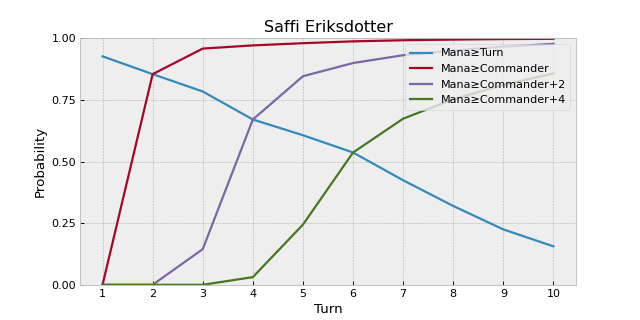
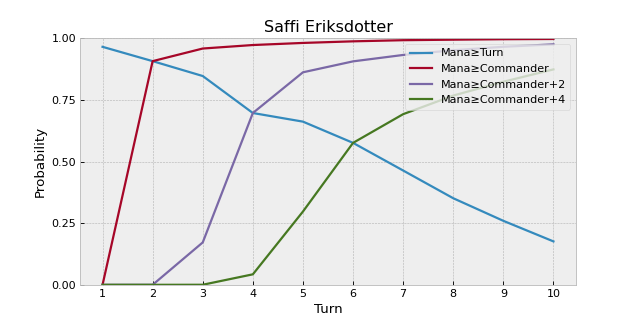
Update example

diff --git a/examples/decks/saffi.py b/examples/decks/saffi.py
@@ -1,5 +1,7 @@
 import matplotlib.pyplot as plt
 from mtg_mana_simulator import AI, Card, Experiment, Metric, Sequence
+from mtg_mana_simulator.actions import basic_tapped_into_play, basic_untapped_into_play, basic_to_hand
+from mtg_mana_simulator.repository import Repository
 
 title = "Saffi Eriksdotter"
 cmc = 2
@@ -8,13 +10,11 @@ deck_size = 99
 turns = list(range(1, 11))
 
 avacyns_pilgrim = birds_of_paradise = Card.tapped_rock(1, 1)
-sakura_tribe_elder = Card.tapped_rock(2, 1)
+sakura_tribe_elder = Card("Sakura-Tribe Elder", cost=2, transform=[basic_tapped_into_play])
 burnished_hart = Card(cost=3, mana_sequence=Sequence.repeat(2).prefixed_by([0, -2]))
-yavimaya_granger = Card.tapped_rock(3, 1)
+yavimaya_granger = Card("Yavimaya Granger", cost=3, transform=[basic_tapped_into_play])
 yavimaya_elder = Card(cost=3, draw_sequence=Sequence.once(1).prefixed_by([0]), mana_sequence=Sequence.once(-2).prefixed_by([0]))
-solemn_simulacrum = Card.tapped_rock(4, 1)
-natures_lore = Card.tapped_rock(2, 1)
-cultivate = Card.tapped_rock(3, 1)
+solemn_simulacrum = Card("Solemn Simulacrum", cost=4, transform=[basic_tapped_into_play])
 
 deck = [
     avacyns_pilgrim,
@@ -24,9 +24,9 @@ deck = [
     yavimaya_elder,
     yavimaya_granger,
     solemn_simulacrum,
-    natures_lore,
-    cultivate
-] + 21*[Card.untapped_land] + 14*[Card.tapped_land]
+    Repository["Nature's Lore"],
+    Repository['Cultivate']
+] + 21*[Card.basic_land] + 5*[Card.untapped_land] + 9*[Card.tapped_land]
 deck += (99-len(deck))*[Card.filler]
 
 with plt.style.context("bmh"):
